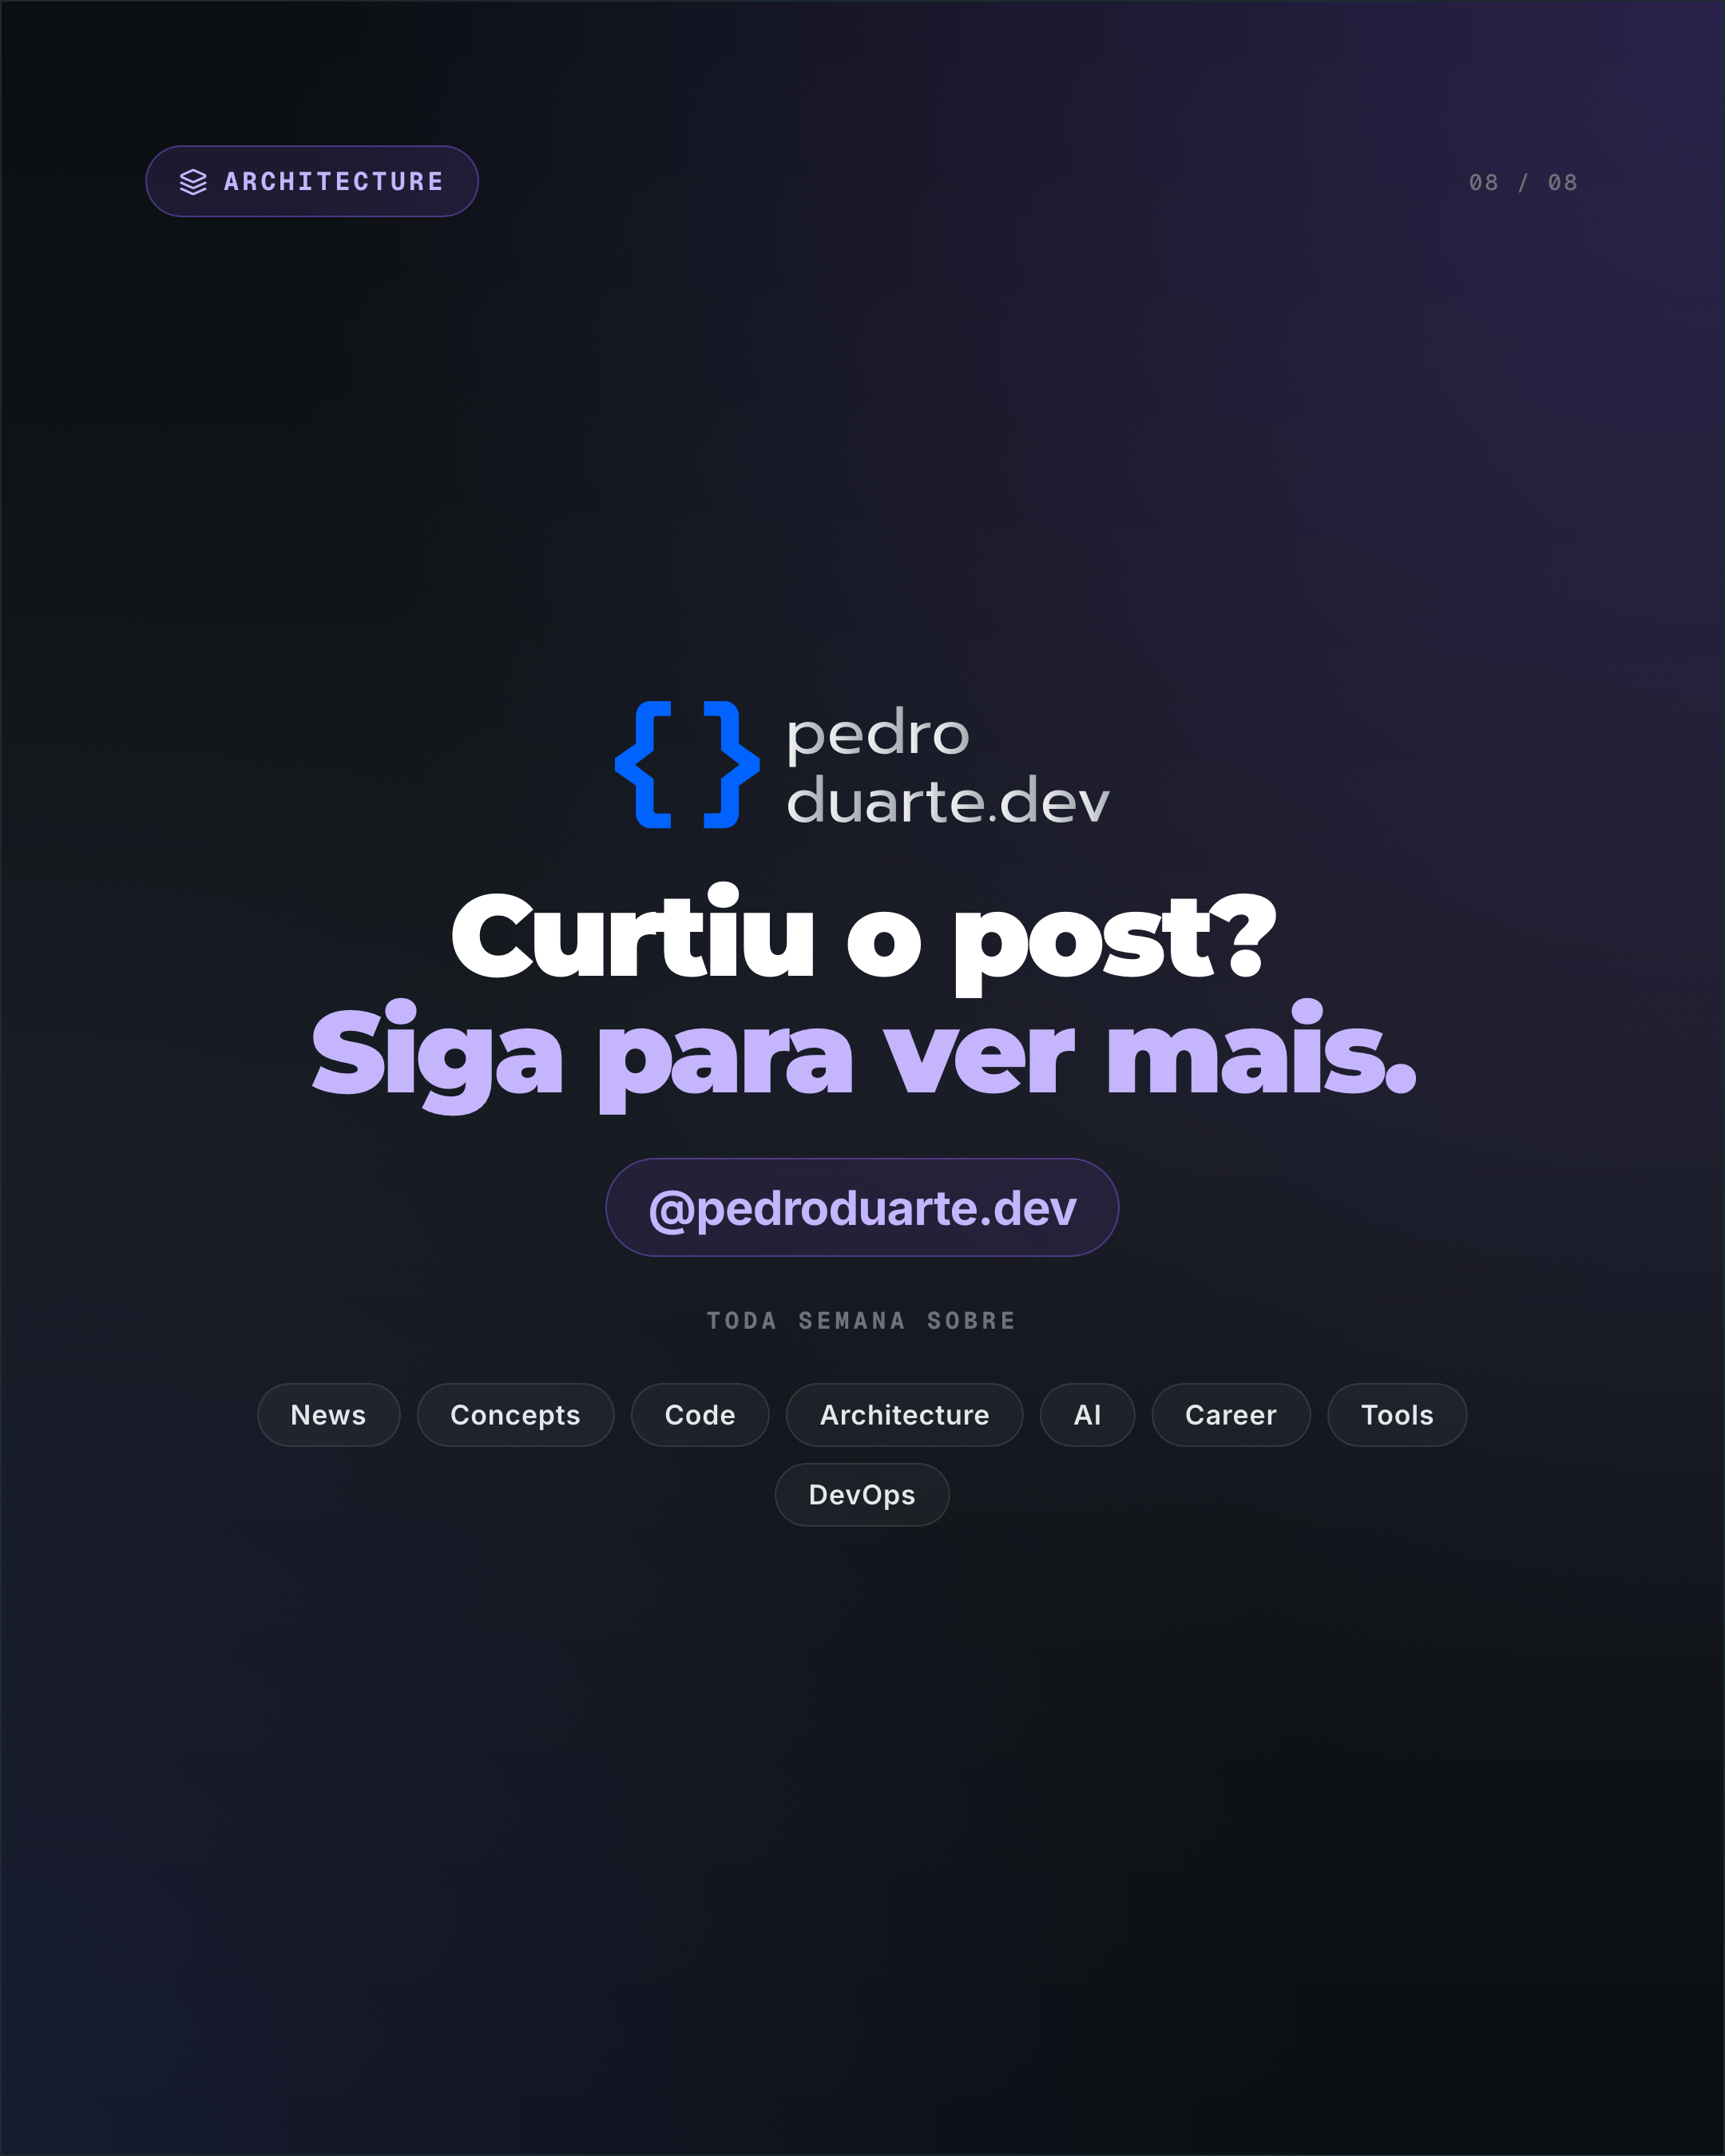
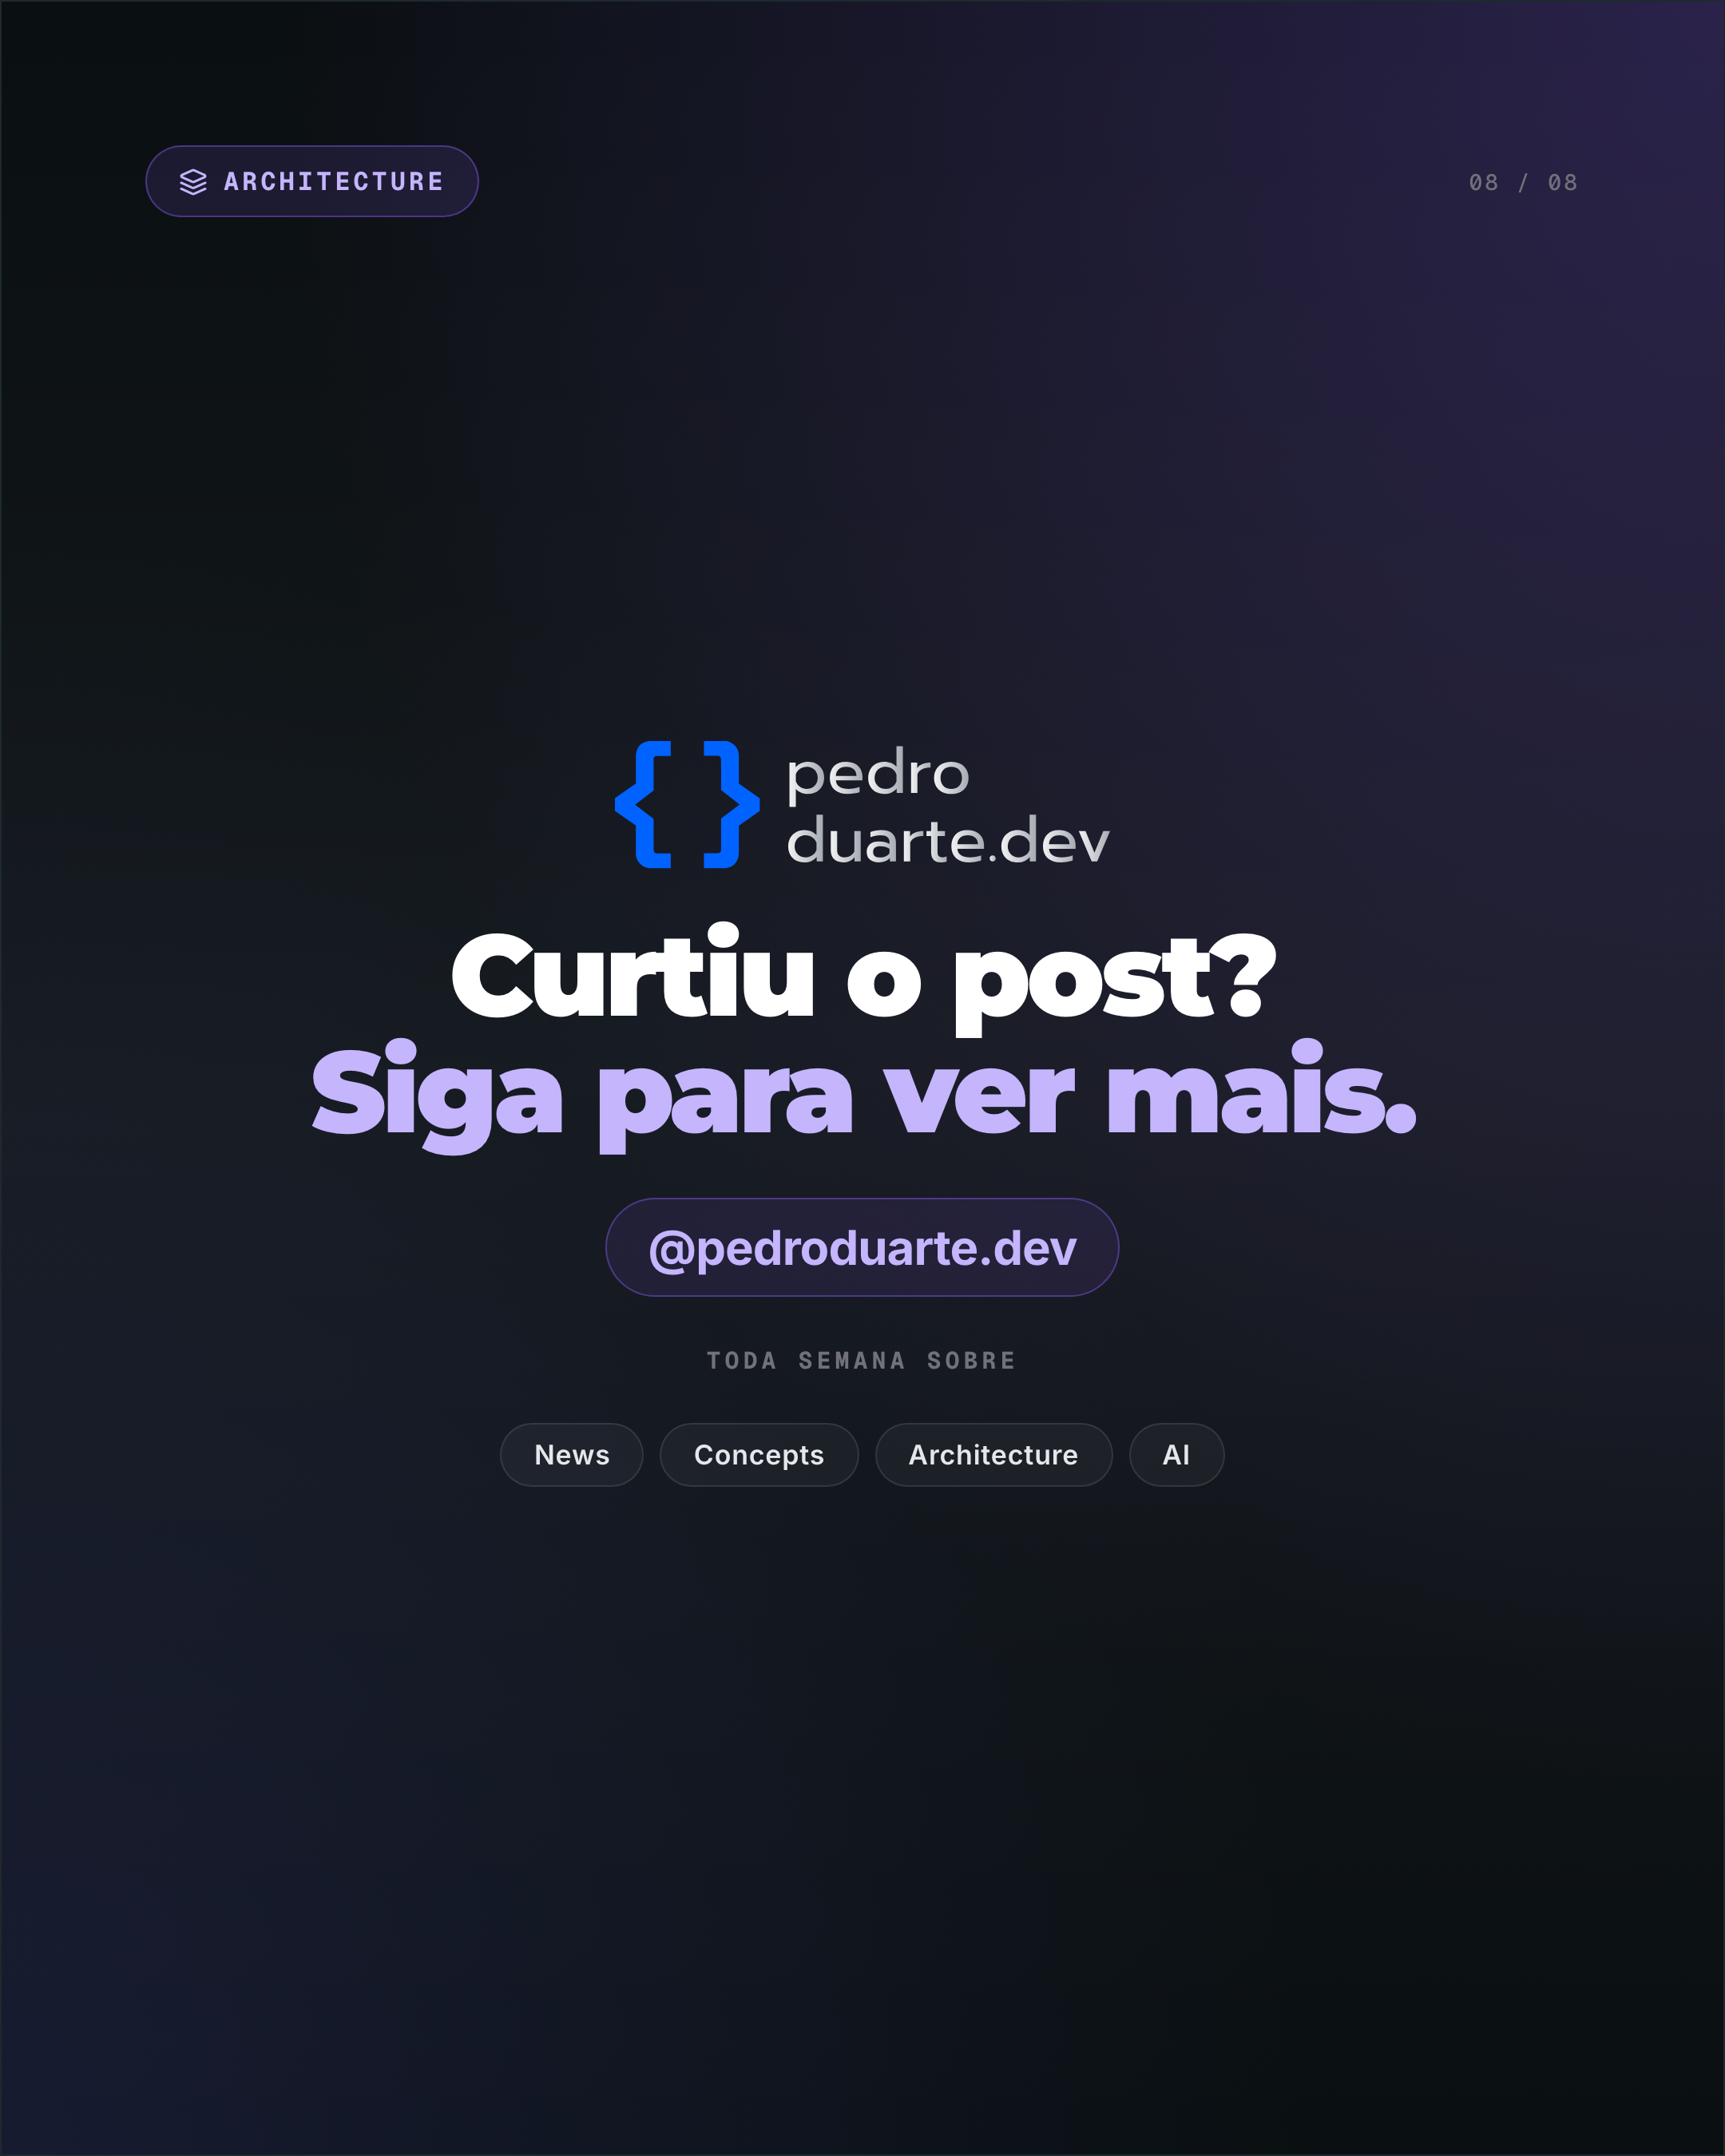
Design guide: regra de tags ativas no slide CTA
Slide CTA agora mostra apenas as 4 tags com publicações ativas (News,
Concepts, Architecture, AI) em vez das 11 oficiais. Atualiza o carrossel
de banco de dados pra ficar coerente com a nova regra.

diff --git a/marketing/conteudo/carrossel-arquitetura-escolha-banco-2026-05-28/carrossel-insta.html b/marketing/conteudo/carrossel-arquitetura-escolha-banco-2026-05-28/carrossel-insta.html
@@ -913,12 +913,8 @@
     <div class="cta-topics">
       <span class="topic-pill">News</span>
       <span class="topic-pill">Concepts</span>
-      <span class="topic-pill">Code</span>
       <span class="topic-pill">Architecture</span>
       <span class="topic-pill">AI</span>
-      <span class="topic-pill">Career</span>
-      <span class="topic-pill">Tools</span>
-      <span class="topic-pill">DevOps</span>
     </div>
   </div>
 </div>

diff --git a/marketing/conteudo/carrossel-arquitetura-escolha-banco-2026-05-28/carrossel-linkedin.html b/marketing/conteudo/carrossel-arquitetura-escolha-banco-2026-05-28/carrossel-linkedin.html
@@ -909,12 +909,8 @@
     <div class="cta-topics">
       <span class="topic-pill">News</span>
       <span class="topic-pill">Concepts</span>
-      <span class="topic-pill">Code</span>
       <span class="topic-pill">Architecture</span>
       <span class="topic-pill">AI</span>
-      <span class="topic-pill">Career</span>
-      <span class="topic-pill">Tools</span>
-      <span class="topic-pill">DevOps</span>
     </div>
   </div>
 </div>

diff --git a/identidade/design-guide.md b/identidade/design-guide.md
@@ -228,3 +228,19 @@ marketing/conteudo/<slug>-<data>/
 - `postar-instagram.js` → lê `instagram/` + `legenda.md`
 - `postar-linkedin.js` → prefere `linkedin/` + `legenda-linkedin.md`, se não existirem cai pra `instagram/` + `legenda.md`
 - `postar-story.js` → lê `story.png`
+
+---
+
+## Slide CTA — tags ativas
+
+No último slide (CTA "Curtiu? Siga para ver mais.") a fileira de `topic-pill` mostra **apenas as tags que estamos publicando ativamente**. Mostrar 11 chips polui o slide e promete conteúdo que ainda não existe no feed.
+
+**Tags ativas hoje (maio 2026):**
+- News
+- Concepts
+- Architecture
+- AI
+
+**Quando incluir mais:** quando tiver pelo menos 2-3 publicações da tag no feed. À medida que Code, Career, Tools, Study, Security, DevOps, Opinion forem ganhando posts publicados, adicionar uma de cada vez na ordem em que entrarem em uso.
+
+**Onde alterar:** bloco `.cta-topics` dentro de `carrossel-insta.html` e `carrossel-linkedin.html` de cada peça nova.